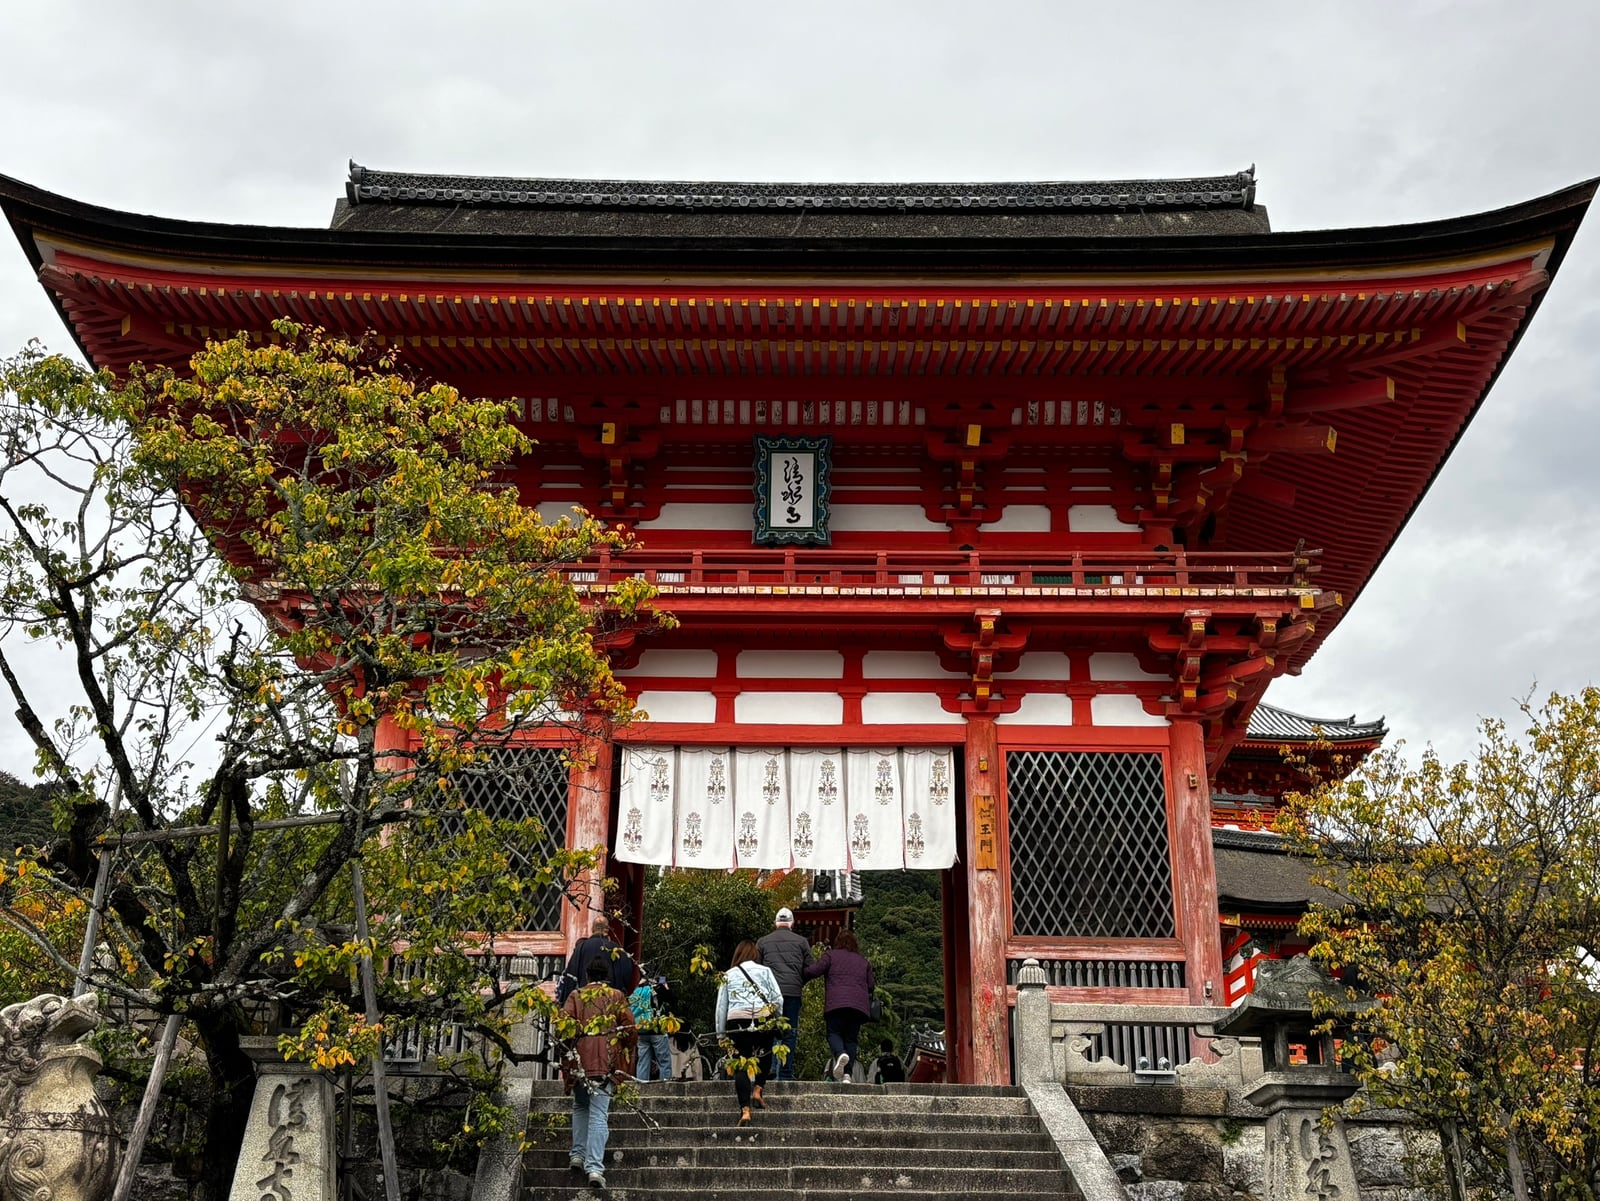
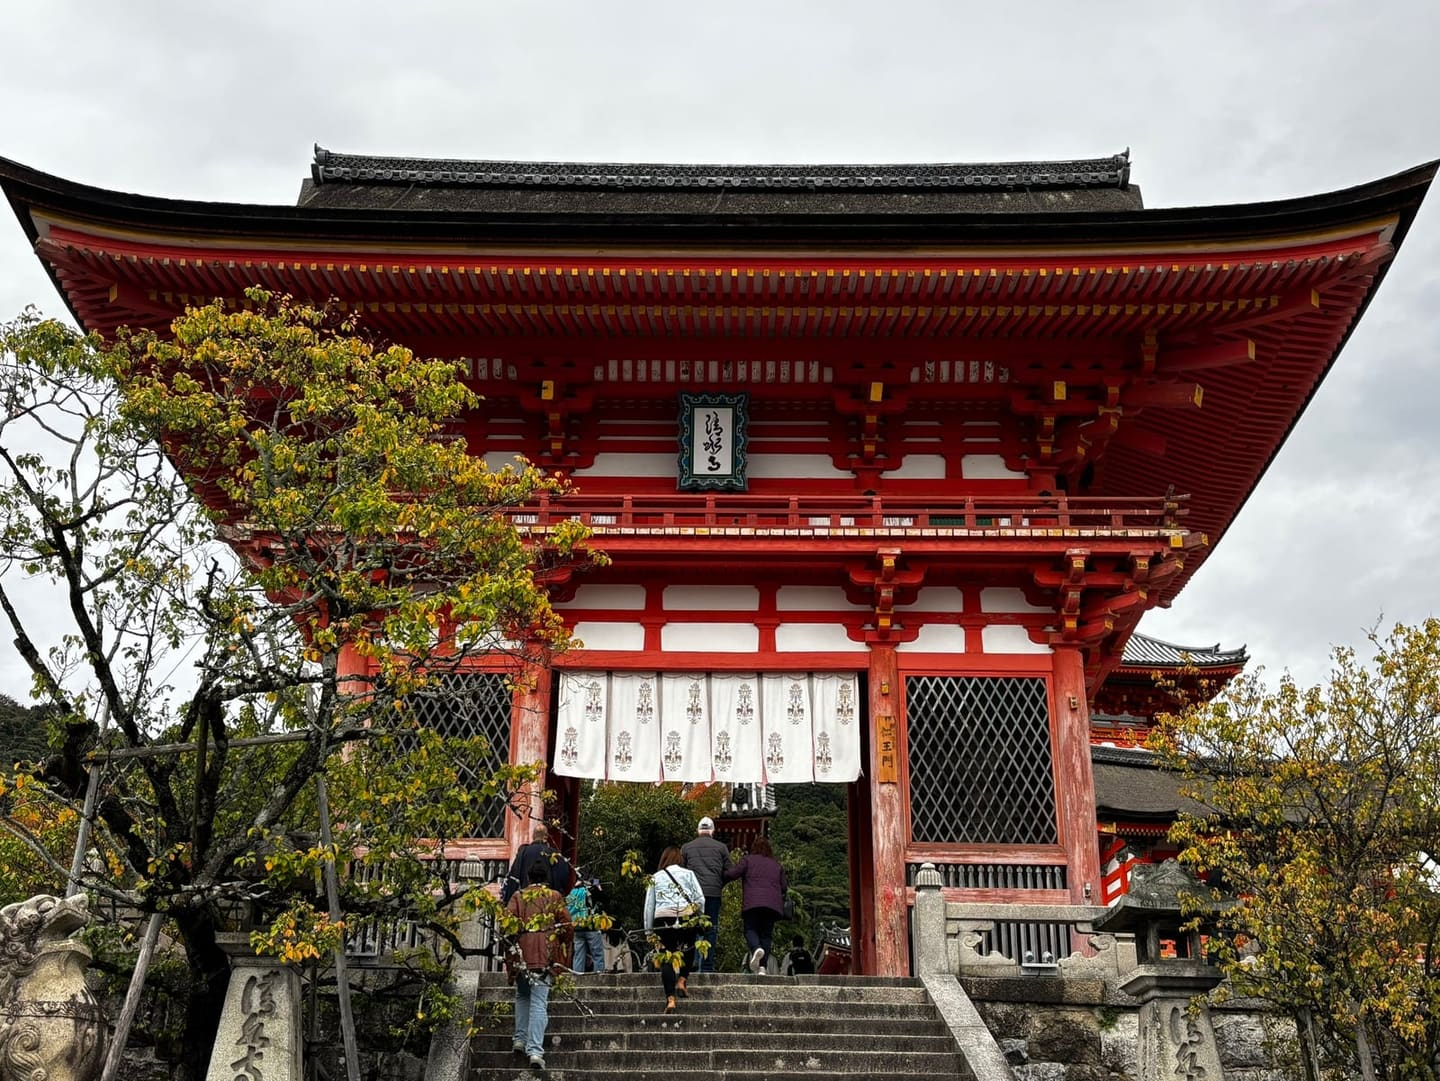
Reduce image payload for production deployment

diff --git a/index.html b/index.html
@@ -5,8 +5,8 @@
 <meta name="viewport" content="width=device-width, initial-scale=1.0" />
 <meta name="description" content="Jack Ye - Personal Site" />
 <meta name="color-scheme" content="light dark" />
-<link rel="icon" type="image/png" href="assets/avatar.png" />
-<link rel="apple-touch-icon" href="assets/avatar.png" />
+<link rel="icon" type="image/webp" href="assets/avatar.webp" />
+<link rel="apple-touch-icon" href="assets/avatar.webp" />
 <title>Jack Ye</title>
 <script>
   (function () {
@@ -628,7 +628,7 @@
   <section class="view" id="home" aria-labelledby="home-name">
     <div class="profile">
       <div class="avatar-frame">
-        <img src="assets/avatar.png" alt="Jack Ye avatar" width="1024" height="1024" />
+        <img src="assets/avatar.webp" alt="Jack Ye avatar" width="512" height="512" />
       </div>
       <h1 class="profile-name" id="home-name">Jack Ye</h1>
       <div class="profile-links" aria-label="Platform links">
@@ -1251,7 +1251,7 @@
           </div>
 
           <figure class="article-figure">
-            <img src="assets/focus-experiment-chart-en.png" alt="IELTS reading and listening scores with and without L-theanine and guarana" width="1448" height="1086" loading="lazy" />
+            <img src="assets/focus-experiment-chart-en.webp" alt="IELTS reading and listening scores with and without L-theanine and guarana" width="1448" height="1086" loading="lazy" />
             <figcaption>Figure 1: Scores from seven IELTS sessions. Green marks the combination group and pink the control group; the lines retain every reading and listening score, while the bars compare the group means.</figcaption>
           </figure>
 
@@ -1344,7 +1344,7 @@
           </div>
 
           <figure class="article-figure">
-            <img src="assets/focus-experiment-chart.png" alt="茶氨酸与瓜拉纳使用状态下的七次雅思阅读和听力成绩统计图" width="1448" height="1086" loading="lazy" />
+            <img src="assets/focus-experiment-chart.webp" alt="茶氨酸与瓜拉纳使用状态下的七次雅思阅读和听力成绩统计图" width="1448" height="1086" loading="lazy" />
             <figcaption>图 1：7 次雅思训练成绩。绿色代表服用组合，粉色代表未服用；折线保留每次阅读与听力分数，柱形对比两组均值。</figcaption>
           </figure>
 
